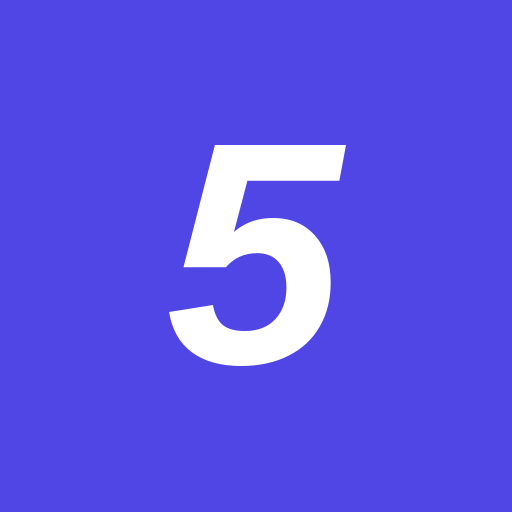
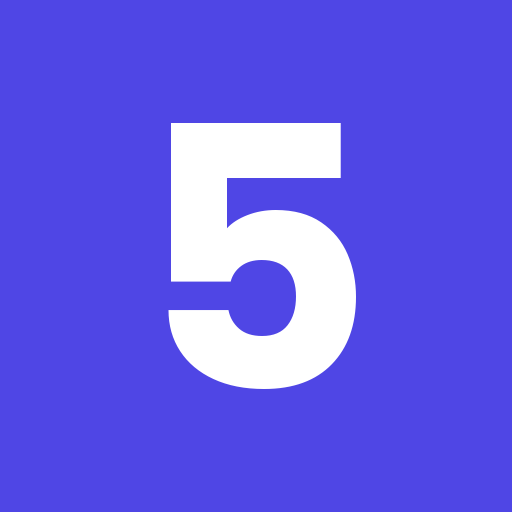
Add files via upload

Changed region(s): [[0.3125, 0.2188, 0.6875, 0.6562], [0.3438, 0.3438, 0.7188, 0.7812], [0.3125, 0.5938, 0.3438, 0.6562]]

diff --git a/index.html b/index.html
@@ -5,6 +5,8 @@
 <meta name="viewport" content="width=device-width, initial-scale=1, viewport-fit=cover">
 <title>Ocjene</title>
 <link rel="manifest" href="manifest.json">
+<link rel="icon" type="image/png" sizes="192x192" href="icon-192.png">
+<link rel="icon" type="image/png" sizes="512x512" href="icon-512.png">
 <link rel="apple-touch-icon" href="icon-180.png">
 <meta name="apple-mobile-web-app-capable" content="yes">
 <meta name="mobile-web-app-capable" content="yes">
@@ -265,6 +267,10 @@ if (!standalone && !bypass) {
     'Otvori ovu stranicu u Safariju.',
     'Dodirni gumb <b>Podijeli</b> (kvadrat sa strelicom).',
     'Odaberi <b>Dodaj na početni zaslon</b>.',
+    'Otvori aplikaciju s početnog zaslona.'
+  ] : android && /firefox/i.test(ua) ? [
+    'Dodirni izbornik <b>⋮</b> u Firefoxu.',
+    'Odaberi <b>Instaliraj</b> (ne običan prečac).',
     'Otvori aplikaciju s početnog zaslona.'
   ] : android ? [
     'Dodirni izbornik <b>⋮</b> u pregledniku.',

diff --git a/sw.js b/sw.js
@@ -1,5 +1,5 @@
-const CACHE = 'ocjene-v6';
-const ASSETS = ['./', './index.html', './manifest.json', './icon-180.png', './icon-192.png', './icon-512.png'];
+const CACHE = 'ocjene-v7';
+const ASSETS = ['./', './index.html', './manifest.json', './icon-180.png', './icon-192.png', './icon-512.png', './icon-maskable-512.png'];
 
 self.addEventListener('install', e => {
   // cache:'reload' skips the browser's HTTP cache, so a stale copy is never stored
